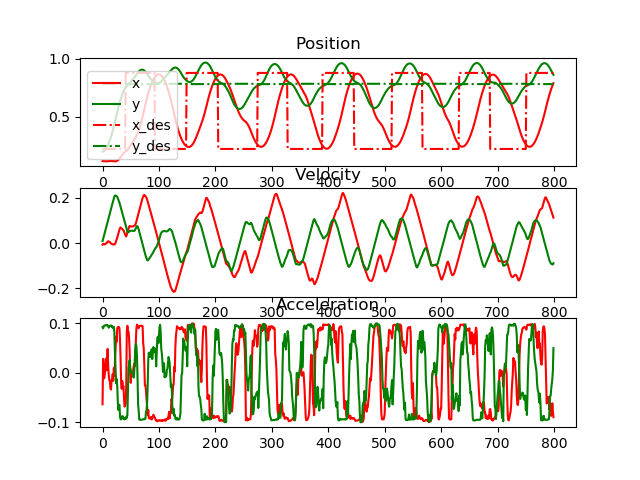
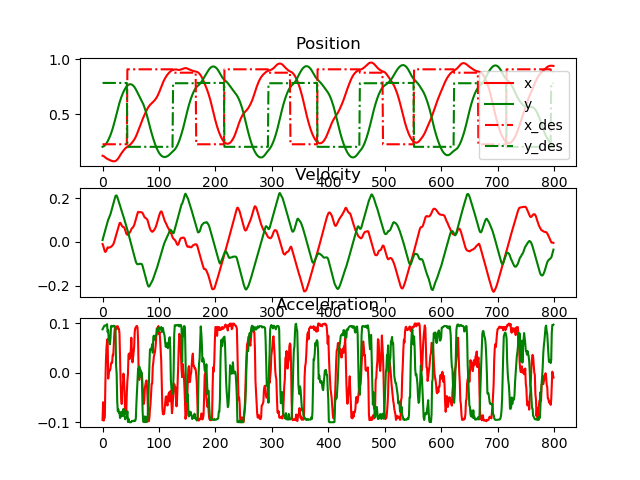
expand SDF_Bounds : 增加SDF影响范围对碰撞结果有好的优化

diff --git a/storm_kit/mpc/control/mppi.py b/storm_kit/mpc/control/mppi.py
@@ -193,69 +193,6 @@ class MPPI(OLGaussianMPC):
         # print(torch.norm(self.cov_action))
 
 
-    def _update_sensitive_distribution(self, trajectories):
-        """
-           Update moments in the direction using sampled
-           trajectories
-
-
-        """
-        costs = trajectories["costs"].to(**self.tensor_args)
-        vis_seq = trajectories[self.visual_traj].to(**self.tensor_args)
-        actions = trajectories["actions"].to(**self.tensor_args)
-        w = self._exp_util(costs, actions)
-        
-        #Update best action
-        best_idx = torch.argmax(w)
-        self.best_idx = best_idx
-        self.best_traj = torch.index_select(actions, 0, best_idx).squeeze(0)
-        # 5条好的轨迹  10条最差轨迹 ； 5条好的轨迹基本扭结在一起 10条差轨迹扩散较为明显
-        top_values, good_idx = torch.topk(self.total_costs, k=5, largest=False)
-        top_values, bad_idx = torch.topk(self.total_costs, k=10) # Returns the k largest elements of the given input tensor along a given dimension. 
-        #print(ee_pos_seq.shape, top_idx)
-        self.top_values = top_values
-        self.top_idx = torch.cat((good_idx, bad_idx), dim=0)
-        self.top_trajs = torch.index_select(vis_seq, 0, self.top_idx).squeeze(0)
-        
-        weighted_seq = w.T * actions.T
-        sum_seq = torch.sum(weighted_seq.T, dim=0)
-        new_mean = sum_seq
-
-        self.mean_action = (1.0 - self.step_size_mean) * self.mean_action +\
-            self.step_size_mean * new_mean
-        
-        delta = actions - self.mean_action.unsqueeze(0)  
-
-        #Update Covariance
-        if self.update_cov:
-            if self.cov_type == 'sigma_I':
-                #weighted_delta = w * (delta ** 2).T
-                #cov_update = torch.mean(torch.sum(weighted_delta.T, dim=0))
-                #print(cov_update.shape, self.cov_action)
-                raise NotImplementedError('Need to implement covariance update of form sigma*I')
-            
-            elif self.cov_type == 'diag_AxA':
-                #Diagonal covariance of size AxA
-                weighted_delta = w * (delta ** 2).T
-                # cov_update = torch.diag(torch.mean(torch.sum(weighted_delta.T, dim=0), dim=0))
-                cov_update = torch.mean(torch.sum(weighted_delta.T, dim=0), dim=0)
-            elif self.cov_type == 'diag_HxH':
-                raise NotImplementedError
-            elif self.cov_type == 'full_AxA':
-                #Full Covariance of size AxA
-                weighted_delta = torch.sqrt(w) * (delta).T
-                weighted_delta = weighted_delta.T.reshape((self.horizon * self.num_particles, self.d_action))
-                cov_update = torch.matmul(weighted_delta.T, weighted_delta) / self.horizon
-            elif self.cov_type == 'full_HAxHA':# and self.sample_type != 'stomp':
-                weighted_delta = torch.sqrt(w) * delta.view(delta.shape[0], delta.shape[1] * delta.shape[2]).T #.unsqueeze(-1)
-                cov_update = torch.matmul(weighted_delta, weighted_delta.T)
-            else:
-                raise ValueError('Unidentified covariance type in update_distribution')
-            # if (self.cov_action.sum() < cov_update.sum()).item():
-            self.cov_action = (1.0 - self.step_size_cov) * self.cov_action +\
-                self.step_size_cov * cov_update
-
-
     def _shift(self, shift_steps):
         """
             Predict good parameters for the next time step by

diff --git a/storm_kit/geom/sdf/world.py b/storm_kit/geom/sdf/world.py
@@ -672,13 +672,15 @@ class WorldMoveableImageCollision(WorldCollision):
         _,im = cv2.threshold(im,10,255,cv2.THRESH_BINARY)
         self.im = im
         shift = 3
-        # self.movelist = np.float32([
-        #     [[1, 0, -shift], [0, 1, 0]],
-        #     [[1, 0,  shift], [0, 1, 0]]])
-        self.movelist = np.float32([
+        self.up_down = False
+        if self.up_down: 
+            self.movelist = np.float32([
             [[1, 0, 0], [0, 1, -shift]],
             [[1, 0,  0], [0, 1, shift]]])
-        
+        else:
+            self.movelist = np.float32([
+                [[1, 0, -shift], [0, 1, 0]],
+                [[1, 0,  shift], [0, 1, 0]]])
         self.step_move = 20
         self.move_ind = 10
         
@@ -786,12 +788,12 @@ class WorldMoveableImageCollision(WorldCollision):
 
         cost_sdf = torch.zeros_like(self.scene_voxels)
         # 对dist大于0.05小于0.30的区域进行运算
-        mask_mid = (self.scene_voxels > 0.01) & (self.scene_voxels < 0.08)
+        mask_mid = (self.scene_voxels > 0.01) & (self.scene_voxels < 0.1)
         cost_sdf[mask_mid] = torch.exp(-50 * (self.scene_voxels[mask_mid] - 0.01))
         # 对dist小于等于0.05的区域直接设置为1
         cost_sdf[self.scene_voxels <= 0.01] = 1.0
         # 对dist大于0.30的区域直接设置为0
-        cost_sdf[self.scene_voxels > 0.08] = 0.0
+        cost_sdf[self.scene_voxels > 0.1] = 0.0
 
         self.scene_voxels = cost_sdf
         self.num_voxels = self.im_dims

diff --git a/examples/simple_reacher_class.py b/examples/simple_reacher_class.py
@@ -22,6 +22,7 @@
 # DEALINGS IN THE SOFTWARE.#
 
 import matplotlib
+matplotlib.use('tkagg')
 import time
 import argparse
 import numpy as np
@@ -38,7 +39,7 @@ from storm_kit.mpc.utils.mpc_process_wrapper import ControlProcess
 from storm_kit.mpc.task.simple_task import SimpleTask
 import torch
 import time
-matplotlib.use('tkagg')
+
 torch.multiprocessing.set_start_method('spawn',force=True)
 from visual.plot_simple import Plotter
 
@@ -60,7 +61,7 @@ class holonomic_robot(Plotter):
         super().__init__()
 
         self.goal_list = [
-                # [0.9098484848484849, 0.2006060606060608],
+                [0.9098484848484849, 0.2006060606060608],
                 [0.8787878787878789, 0.7824675324675325], 
                 [0.2240259740259739, 0.7851731601731602]]        
         self.goal_state = self.goal_list[-1]

diff --git a/storm_kit/mpc/cost/__init__.py b/storm_kit/mpc/cost/__init__.py
@@ -36,7 +36,7 @@ from .ee_vel_cost import EEVelCost
 from .collision_cost import CollisionCost
 from .primitive_collision_cost import PrimitiveCollisionCost
 from .voxel_collision_cost import VoxelCollisionCost
-from .scenecollision_cost import ScenecollisionCost
+# from .scenecollision_cost import ScenecollisionCost
 try:
     True
     # from .scene_nn_collision_cost import SceneNNCollisionCost
@@ -44,4 +44,4 @@ except ImportError:
     pass
 
 __all__ = ['DistCost', 'FiniteDifferenceCost', 'JacobianCost', 'PoseCost', 'ProjectedDistCost','PoseCostQuaternion' \
-           'ZeroCost', 'get_inv_null_cost','get_transpose_null_cost', 'ScenecollisionCost', 'terminalCost','SparseReward']
+           'ZeroCost', 'get_inv_null_cost','get_transpose_null_cost', 'terminalCost','SparseReward']

diff --git a/storm_kit/mpc/rollout/arm_base.py b/storm_kit/mpc/rollout/arm_base.py
@@ -26,7 +26,7 @@ import torch.autograd.profiler as profiler
 from ..cost import DistCost, PoseCost, ProjectedDistCost, JacobianCost, ZeroCost, EEVelCost, StopCost, FiniteDifferenceCost,PoseCostQuaternion
 from ..cost.bound_cost import BoundCost
 from ..cost.manipulability_cost import ManipulabilityCost
-from ..cost import CollisionCost, VoxelCollisionCost, PrimitiveCollisionCost, ScenecollisionCost
+from ..cost import CollisionCost, VoxelCollisionCost, PrimitiveCollisionCost
 from ..model import URDFKinematicModel
 from ...util_file import join_path, get_assets_path
 from ...differentiable_robot_model.coordinate_transform import matrix_to_quaternion, quaternion_to_matrix

diff --git a/storm_kit/mpc/cost/finite_difference_cost.py b/storm_kit/mpc/cost/finite_difference_cost.py
@@ -21,8 +21,8 @@
 # FROM, OUT OF OR IN CONNECTION WITH THE SOFTWARE OR THE USE OR OTHER
 # DEALINGS IN THE SOFTWARE.#
 import matplotlib
-matplotlib.use('tkagg')
-import matplotlib.pyplot as plt
+# matplotlib.use('tkagg')
+import matplotlib.pyplot as pltnning
 
 import torch
 import torch.nn as nn
